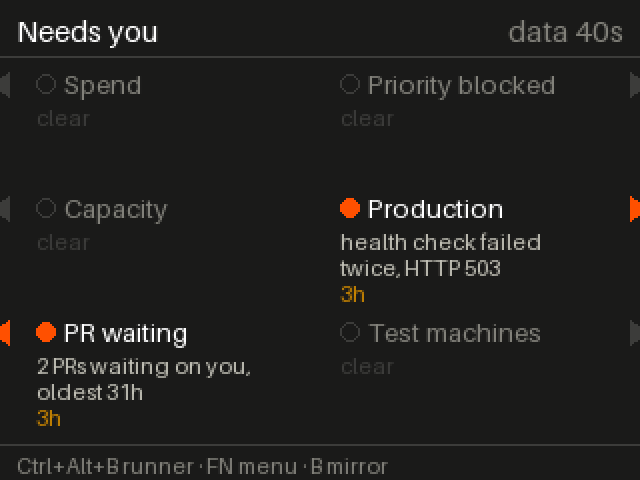
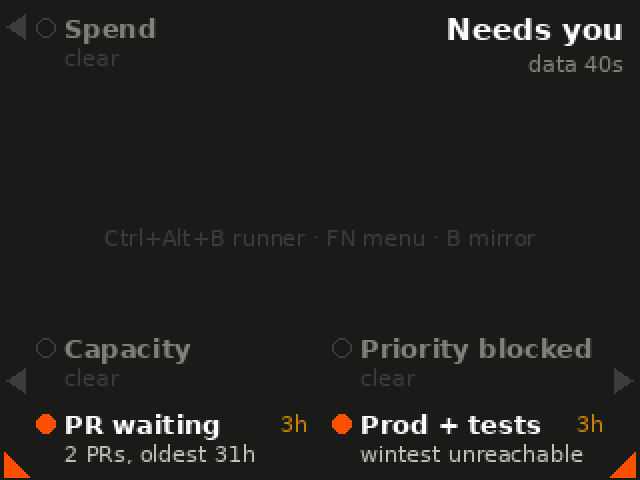
Report screen for the badge's five LEDs; LED brightness defaults to 25%
The badge has five front LEDs (left top, left middle, left low, right middle, right low; fio's photo
2026-10-13), not six. Slots and default LED indices follow them; labels sit beside each LED with an arrow
pointing at it, one short line each. The title moves to the top right, where there is no LED.
Default LED indices 0/2 (left top/middle) remain unconfirmed; 4 = D-pad, 5 = A/B, 6 = START/SELECT.

Claude-Session: https://claude.ai/code/session_01FMZi7rZF126zrCB2vwNpQ9

diff --git a/host/dc32host/attention.py b/host/dc32host/attention.py
@@ -3,7 +3,9 @@
 A separate process writes ~/.cache/dc32-display/attention.json (this daemon only reads it):
   {"at": "<ISO UTC>", "indicators": [{"id", "label", "lit", "reason", "since", "link"}, ...]}
 Each indicator owns one LED (config `attention_leds`: id -> LED index) and one screen slot
-(config `attention_slots`: id -> "right_top" ... "left_low"). Lit = needs you, off = nothing for you.
+(config `attention_slots`: id -> "left_top" ... "right_low"). Lit = needs you, off = nothing for you.
+The badge has five front LEDs, placed around the screen as in fio's photo (2026-10-13): left top (beside the
+screen's top edge), left middle and right middle (beside its bottom edge), left low (D-pad) and right low (A/B).
 If the file is missing, unreadable or older than `attention_stale_s` (default 10 min), every mapped
 LED blinks slowly white, so a dead writer never looks like "all fine".
 `dc32host ctl leds_identify` lights LED 0..8 in turn and shows the index, to confirm the mapping.
@@ -25,13 +27,16 @@ PATH = Path.home() / ".cache" / "dc32-display" / "attention.json"
 STALE_S = 600
 LIT = (255, 80, 0)                    # one steady colour for "needs you"
 STALE_RGB = (255, 255, 255)
-# Default mapping from the firmware's front LEDs (0,2,4,5,6) and its button zones (4 = D-pad, left;
-# 5 = A/B, right; 6 = START/SELECT, low). UNCONFIRMED until checked with `ctl leds_identify`.
-DEFAULT_LEDS = {"priority_blocked": 2, "production": 5, "test_machines": 6,
-                "spend": 0, "capacity": 4, "pr_waiting": 3}
-DEFAULT_SLOTS = {"priority_blocked": "right_top", "production": "right_middle", "test_machines": "right_low",
-                 "spend": "left_top", "capacity": "left_middle", "pr_waiting": "left_low"}
-SLOT_ORDER = ["right_top", "right_middle", "right_low", "left_top", "left_middle", "left_low"]
+# Default mapping from the firmware's front LEDs (0,2,4,5,6) and its button zones (4 = D-pad, left low;
+# 5 = A/B, right low; 6 = START/SELECT, right middle). 0 and 2 (left top / left middle) are UNCONFIRMED:
+# check with `ctl leds_identify` and override `attention_leds` in config if they are swapped.
+DEFAULT_LEDS = {"spend": 0, "capacity": 2, "pr_waiting": 4, "priority_blocked": 6, "production": 5}
+DEFAULT_SLOTS = {"spend": "left_top", "capacity": "left_middle", "pr_waiting": "left_low",
+                 "priority_blocked": "right_middle", "production": "right_low"}
+SLOT_ORDER = ["left_top", "left_middle", "left_low", "right_middle", "right_low"]
+# Where each slot sits on the 320x240 screen: label y, and the arrow toward its LED (point, direction).
+# Top LED is beside the screen's top edge; middle LEDs beside its bottom edge; low LEDs below the screen.
+SLOT_Y = {"top": 6, "middle": 166, "low": 204}
 IDENTIFY_S = 3.0
 N_LEDS = 9
 
@@ -144,49 +149,63 @@ def _wrap(d, text, font, width, lines):
     return [_fit(d, l, font, width) for l in out]
 
 
+def _arrow(d, side, row, fill):
+    """Arrow at the screen edge pointing at the LED: sideways for top/middle, diagonally down for low."""
+    W, H = C.OUT_W, C.OUT_H
+    if row == "low":
+        if side == "left":
+            pts = [(2, H - 2), (14, H - 2), (2, H - 14)]
+        else:
+            pts = [(W - 3, H - 2), (W - 15, H - 2), (W - 3, H - 14)]
+    else:
+        ay = {"top": 13, "middle": 190}[row]
+        ax, step = (3, 1) if side == "left" else (W - 4, -1)
+        pts = [(ax, ay), (ax + step * 9, ay - 6), (ax + step * 9, ay + 6)]
+    d.polygon(pts, fill=fill)
+
+
 def render(state, slots_map=None, now=None):
-    """320x240 report: each indicator on the side and at the height of its LED, arrow pointing to it."""
-    slots_map = slots_map or DEFAULT_SLOTS
+    """320x240 report: each indicator beside its LED with an arrow pointing at it; one short line each."""
+    slots_map = {k: v for k, v in (slots_map or DEFAULT_SLOTS).items() if v in SLOT_ORDER}
     now = now or dt.datetime.now(dt.timezone.utc)
     img = Image.new("RGB", (C.OUT_W, C.OUT_H), BG)
     d = ImageDraw.Draw(img)
     f_t, f_l, f_s = _ttf(15, bold=True), _ttf(13, bold=True), _ttf(11)
-    d.text((8, 6), "Needs you", font=f_t, fill=INK)
+    title = "Needs you"                        # top right: there is no LED there
+    d.text((C.OUT_W - 8 - d.textlength(title, font=f_t), 6), title, font=f_t, fill=INK)
     if state["stale"]:
         tag = "STALE " + _age(state["age"]) if state["age"] is not None else "STALE no data"
         col = BAD
     else:
         tag, col = "data " + _age(state["age"]), MUTED
-    d.text((C.OUT_W - 8 - d.textlength(tag, font=f_t), 6), tag, font=f_t, fill=col)
-    d.line([0, 28, C.OUT_W, 28], fill=GRID)
+    d.text((C.OUT_W - 8 - d.textlength(tag, font=f_s), 25), tag, font=f_s, fill=col)
+    hint = "Ctrl+Alt+B runner · FN menu · B mirror"
+    d.text(((C.OUT_W - d.textlength(hint, font=f_s)) / 2, 112), hint, font=f_s, fill=GRID)
     by_slot = {}
     for n, i in enumerate(state["indicators"]):
-        by_slot.setdefault(slots_map.get(i["id"]) or (SLOT_ORDER[n] if n < 6 else None), i)
-    colw, rowh, y0 = 132, 62, 34
+        s = slots_map.get(i["id"]) or (SLOT_ORDER[n] if n < len(SLOT_ORDER) and not slots_map else None)
+        if s and s not in by_slot:
+            by_slot[s] = i
+    colw = 136
     for s, ind in by_slot.items():
-        if s not in SLOT_ORDER:
-            continue
         side, row = s.split("_")
-        r = ("top", "middle", "low").index(row)
         x = 18 if side == "left" else C.OUT_W - 18 - colw
-        y = y0 + r * rowh
+        y = SLOT_Y[row]
         lit = bool(ind.get("lit")) and not state["stale"]
-        ax = 4 if side == "left" else C.OUT_W - 5                      # arrow toward the LED, at the screen edge
-        ay = y + 8
-        step = -1 if side == "left" else 1
-        d.polygon([(ax, ay - 6), (ax, ay + 6), (ax + step * 9, ay)], fill=LIT if lit else GRID)
+        _arrow(d, side, row, LIT if lit else GRID)
         label = ind.get("label") or ind["id"].replace("_", " ")
-        d.ellipse([x, y + 3, x + 9, y + 12], fill=LIT if lit else None, outline=LIT if lit else GRID)
-        d.text((x + 14, y), _fit(d, label, f_l, colw - 14), font=f_l, fill=INK if lit else MUTED)
+        age_s = ""
         if lit:
             since = _parse(ind.get("since"))
-            lines = _wrap(d, ind.get("reason") or "", f_s, colw, 2)
-            for k, l in enumerate(lines):
-                d.text((x, y + 18 + k * 13), l, font=f_s, fill=INK2)
-            if since:
-                d.text((x, y + 18 + len(lines) * 13), _age((now - since).total_seconds()), font=f_s, fill=WARN)
+            age_s = _age((now - since).total_seconds()) if since else ""
+        aw = d.textlength(age_s, font=f_s) + 6 if age_s else 0
+        d.ellipse([x, y + 3, x + 9, y + 12], fill=LIT if lit else None, outline=LIT if lit else GRID)
+        d.text((x + 14, y), _fit(d, label, f_l, colw - 14 - aw), font=f_l, fill=INK if lit else MUTED)
+        if age_s:
+            d.text((x + colw - aw + 6, y + 1), age_s, font=f_s, fill=WARN)
+        if lit:
+            d.text((x + 14, y + 16), _fit(d, ind.get("reason") or "", f_s, colw - 14), font=f_s, fill=INK2)
         else:
-            d.text((x, y + 18), "clear" if not state["stale"] else "unknown", font=f_s, fill=GRID if not state["stale"] else MUTED)
-    d.line([0, 222, C.OUT_W, 222], fill=GRID)
-    d.text((8, 226), "Ctrl+Alt+B runner · FN menu · B mirror", font=f_s, fill=MUTED)
+            d.text((x + 14, y + 16), "clear" if not state["stale"] else "unknown", font=f_s,
+                   fill=GRID if not state["stale"] else MUTED)
     return np.asarray(img).copy()

diff --git a/host/dc32host/config.py b/host/dc32host/config.py
@@ -38,7 +38,7 @@ DEFAULTS = {
     "idle_clock_s": 0,                # show the drifting clock after this many idle seconds (0 = off)
     "dim_after_s": 600,               # dim the badge backlight after this long without PC/badge input (0 = never)
     "dim_brightness": 2,
-    "led_brightness_pct": 100,        # LED brightness 1..100 (%); `dc32host ctl led_brightness:25`
+    "led_brightness_pct": 25,         # LED brightness 1..100 (%); `dc32host ctl led_brightness:50`
     "tap_sleep": True,                # knock-knock on the badge (2 taps 0.3-1 s apart): sleep / wake
     "tap_threshold": 12,              # 1..127 x 16 mg (12 = 192 mg); lower = lighter taps count (fw >= 0.3)
     "level_rotate": 90,               # bubble level: rotate accel axes to the screen (0/90/180/270)
@@ -49,12 +49,10 @@ DEFAULTS = {
     "default_view": "runner",         # view at start-up: mirror | runner | report
     "attention_file": None,           # default ~/.cache/dc32-display/attention.json (written by another process)
     "attention_stale_s": 600,         # older data: all attention LEDs blink white and the report says STALE
-    # id -> LED index (0-8) and id -> report slot. Defaults in attention.py are UNCONFIRMED guesses:
-    # run `dc32host ctl leds_identify`, note which physical LED lights for each index, then set these.
-    "attention_leds": {"priority_blocked": 2, "production": 5, "test_machines": 6,
-                       "spend": 0, "capacity": 4, "pr_waiting": 3},
-    "attention_slots": {"priority_blocked": "right_top", "production": "right_middle", "test_machines": "right_low",
-                        "spend": "left_top", "capacity": "left_middle", "pr_waiting": "left_low"},
+    # id -> LED index (0-8) and id -> report slot; None = the defaults in attention.py (five front LEDs).
+    # If two lights look swapped, run `dc32host ctl leds_identify` and set these.
+    "attention_leds": None,
+    "attention_slots": None,
     "show_cursor": True,
     "mouse_moves_view": True,
     "flipper_mouse": True,            # Flipper view: mouse wheel/clicks go to the Flipper (keyboard always does)         # zoomed in: pushing the pointer near an edge glides the view (False: keys/D-pad only)

diff --git a/tests/test_attention.py b/tests/test_attention.py
@@ -19,9 +19,8 @@ def iso(sec_ago):
 
 def doc(age, lit=()):
     inds = []
-    for i, (k, label) in enumerate([('priority_blocked', 'Priority blocked'), ('production', 'Production'),
-                                     ('test_machines', 'Test machines'), ('spend', 'Spend'),
-                                     ('capacity', 'Capacity'), ('pr_waiting', 'PR waiting')]):
+    for i, (k, label) in enumerate([('priority_blocked', 'Priority blocked'), ('production', 'Prod + tests'),
+                                     ('spend', 'Spend'), ('capacity', 'Capacity'), ('pr_waiting', 'PR waiting')]):
         on = k in lit
         inds.append({'id': k, 'label': label, 'lit': on, 'reason': lit[k] if on else '', 'since': iso(3 * 3600) if on else None,
                      'link': None})
@@ -37,7 +36,7 @@ def write(obj):
 
 FIXTURES = {
     'none': doc(40),
-    'two': doc(40, {'production': 'health check failed twice, HTTP 503', 'pr_waiting': '2 PRs waiting on you, oldest 31h'}),
+    'two': doc(40, {'production': 'wintest unreachable', 'pr_waiting': '2 PRs, oldest 31h'}),
     'stale': doc(25 * 60, {'production': 'health check failed twice'}),
 }
 
@@ -57,7 +56,7 @@ class Attention(unittest.TestCase):
         self.assertEqual([i for i, c in enumerate(f) if c != (0, 0, 0)], sorted({1, m['pr_waiting']}))
         self.assertEqual(f[1], A.LIT)
 
-    def test_stale_blinks_all_six_white(self):
+    def test_stale_blinks_all_mapped_white(self):
         for obj in (FIXTURES['stale'], None):
             st = A.load(write(obj) if obj else '/nonexistent/attention.json', now=NOW)
             self.assertTrue(st['stale'])

diff --git a/tests/test_led_brightness.py b/tests/test_led_brightness.py
@@ -18,13 +18,14 @@ def stub(pct=None):
 
 
 class LedBrightness(unittest.TestCase):
-    def test_default_is_full(self):
-        self.assertEqual(D.led_pct({}), 100)
-        self.assertEqual(D.led_pct({'led_brightness_pct': 'junk'}), 100)
+    def test_default_is_25(self):
+        self.assertEqual(D.led_pct({}), 25)
+        self.assertEqual(D.led_pct({'led_brightness_pct': 'junk'}), 25)
         self.assertEqual(D.led_pct({'led_brightness_pct': 0}), 1)
 
     def test_step_cycles_100_50_25_10(self):
         d = stub()
+        d.cfg['led_brightness_pct'] = 100
         seen = []
         for _ in range(5):
             D.Daemon.action(d, 'led_brightness')
@@ -35,8 +36,8 @@ class LedBrightness(unittest.TestCase):
 
     def test_explicit_percent(self):
         d = stub()
-        D.Daemon.action(d, 'led_brightness:25')
-        self.assertEqual(d.cfg['led_brightness_pct'], 25)
+        D.Daemon.action(d, 'led_brightness:50')
+        self.assertEqual(d.cfg['led_brightness_pct'], 50)
         D.Daemon.action(d, 'led_brightness:500')
         self.assertEqual(d.cfg['led_brightness_pct'], 100)
         D.Daemon.action(d, 'led_brightness:abc')

diff --git a/host/dc32host/daemon.py b/host/dc32host/daemon.py
@@ -84,11 +84,11 @@ LED_STEPS = (100, 50, 25, 10)
 
 
 def led_pct(cfg) -> int:
-    """LED brightness percent from config (`led_brightness_pct`, default 100), clamped to 1..100."""
+    """LED brightness percent from config (`led_brightness_pct`, default 25), clamped to 1..100."""
     try:
-        return max(1, min(100, int(cfg.get("led_brightness_pct", 100))))
+        return max(1, min(100, int(cfg.get("led_brightness_pct", 25))))
     except (TypeError, ValueError):
-        return 100
+        return 25
 
 class Daemon:
     def __init__(self, cfg: dict, backend=None):
